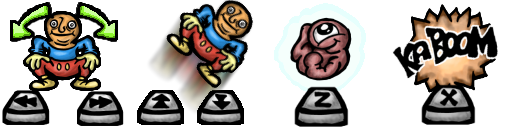
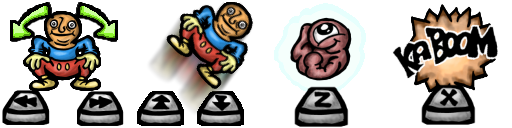
Server fixed, plus something

Changed region(s): [[0.25, 0.0, 0.5, 1.0]]

diff --git a/server/server.js b/server/server.js
@@ -3,26 +3,15 @@
  * @author Jani Nykänen
  */
 
-// Constants
-const SCORE_PATH = "scores";
-const SCORE_MAX = 10;
-const PORT = 8081;
-
 // Import libraries
 var http = require("http");
 var url = require("url");
 var fs = require("fs");
 
-// Content
-globalContent = "";
-
-
-// Add content
-function add_content(str) {
-
-    globalContent += str;
-}
-
+// Constants
+const SCORE_PATH = "scores";
+const SCORE_MAX = 10;
+const PORT = process.env.PORT || 80;
 
 
 // Score entry type
@@ -50,20 +39,24 @@ Entry.prototype.clone = function() {
 var entries = [];
 for(var i = 0; i < SCORE_MAX; ++ i) {
 
-    entries[i] = new Entry("Nobody", 0);
+    entries[i] = new Entry("Default", 0);
 }
 
 
 // Print entries
 function print_entries() {
 
+    let out = "";
+
     // Print entries
     for(var i = 0; i < SCORE_MAX; ++ i) {
 
-        add_content(entries[i].get_string());
+        out += entries[i].get_string();
         if(i < SCORE_MAX-1)
-            add_content("|");
+            out += "|";
     }
+
+    return out;
 }
 
 
@@ -118,7 +111,7 @@ function add_entry(name, score) {
 
 
 // Parse params
-function parse_params(q, str) {
+function parse_params(q) {
 
     // Get scores
     if(q.get && q.get == "true") {
@@ -127,7 +120,7 @@ function parse_params(q, str) {
         read_scores(SCORE_PATH);
 
         // Print entries
-        print_entries();
+        return print_entries();
 
     } 
     // Add score
@@ -144,10 +137,8 @@ function parse_params(q, str) {
         write_scores(SCORE_PATH);
 
         // Print entries
-        print_entries();
+        return print_entries();
     }
-
-    return str;
 }
 
 
@@ -155,8 +146,16 @@ function parse_params(q, str) {
 function read_scores(path) {
 
     // Read file & get content
-    var data = fs.readFileSync(path);
-    var content = String(data).split('\n');
+    try {
+        var data = fs.readFileSync(path);
+        var content = String(data).split('\n');
+    }
+    catch(e) {
+
+        console.log("Error reading a file: " + e.message);
+        console.log("Using defaults...");
+        return;
+    }
     
     // Add entries
     for(var i = 0; i < content.length; i += 2) {
@@ -188,24 +187,25 @@ function write_scores(path) {
 // Request handler
 var req_handler = function(req, res) {
 
-    globalContent = "";
-
+    // Parse params
     var q = url.parse(req.url, true).query;
 
     // Read scores
     read_scores(SCORE_PATH);
 
     // Parse params
-    parse_params(q);
+    let content = parse_params(q);
 
     // Put data to the html document
     res.writeHead(200, {
         'Content-Type': 'text/plain',
     });
 
-    res.end(globalContent);
+    // Pass content
+    res.end(content);
 
 };
+
 
 // Create a server
 const server = http.createServer(req_handler);

diff --git a/js/game/objects.js b/js/game/objects.js
@@ -12,14 +12,14 @@ const PHASE_TIME = 20.0; // In seconds
 const MAX_PHASE = 6;
 
 const ANIMAL_TIME_WAIT_MIN = [
-    80.0, 75.0, 70.0, 65.0, 60.0, 50.0, 50.0
+    80.0, 80.0, 80.0, 75.0, 70.0, 70.0, 60.0
 ];
 const ANIMAL_TIME_WAIT_VARY = [
     180.0, 180.0, 170.0, 170.0, 160.0, 150.0, 140.0
 ];
 const ANIMAL_WAIT_INITIAL = 120.0;
 const ANIMAL_MAX_CREATE = [
-    2, 3, 3, 4, 4, 5, 5
+    2, 2, 3, 3, 4, 4, 5
 ];
 
 const MONSTER_COUNTER_MIN = [

diff --git a/js/game/pause.js b/js/game/pause.js
@@ -188,7 +188,9 @@ pause.draw = function() {
 
     // Draw controls
     t = Math.max(_status.guidePos, t);
+    graph.set_color(1,1,1, t);
     _status.draw_guide(t, 0, 0, true);
+    graph.set_color(1,1,1, 1);
 }
 
 
